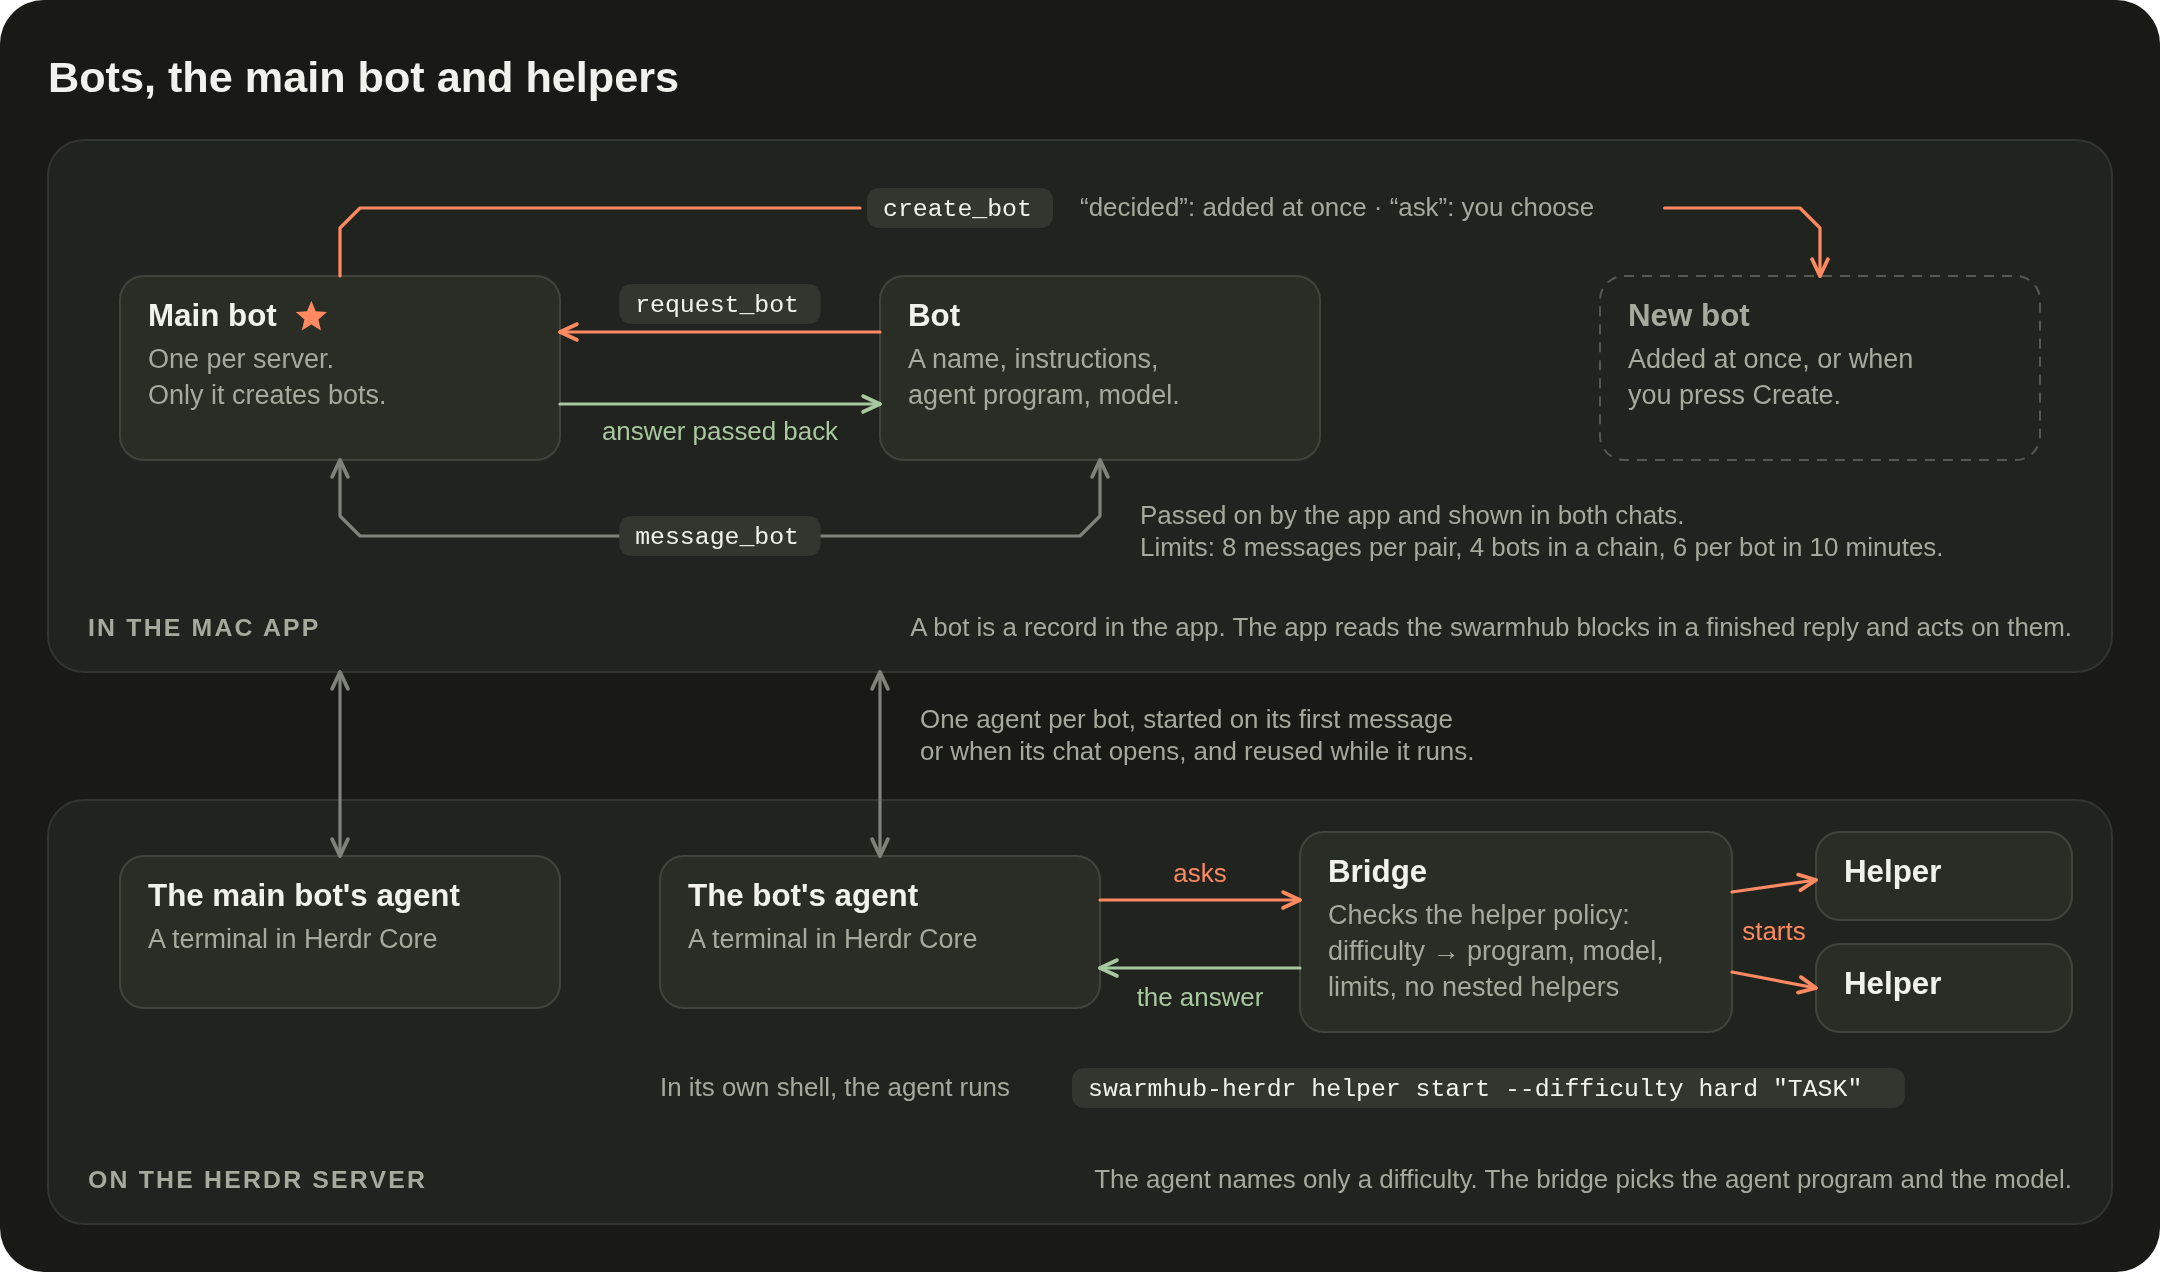
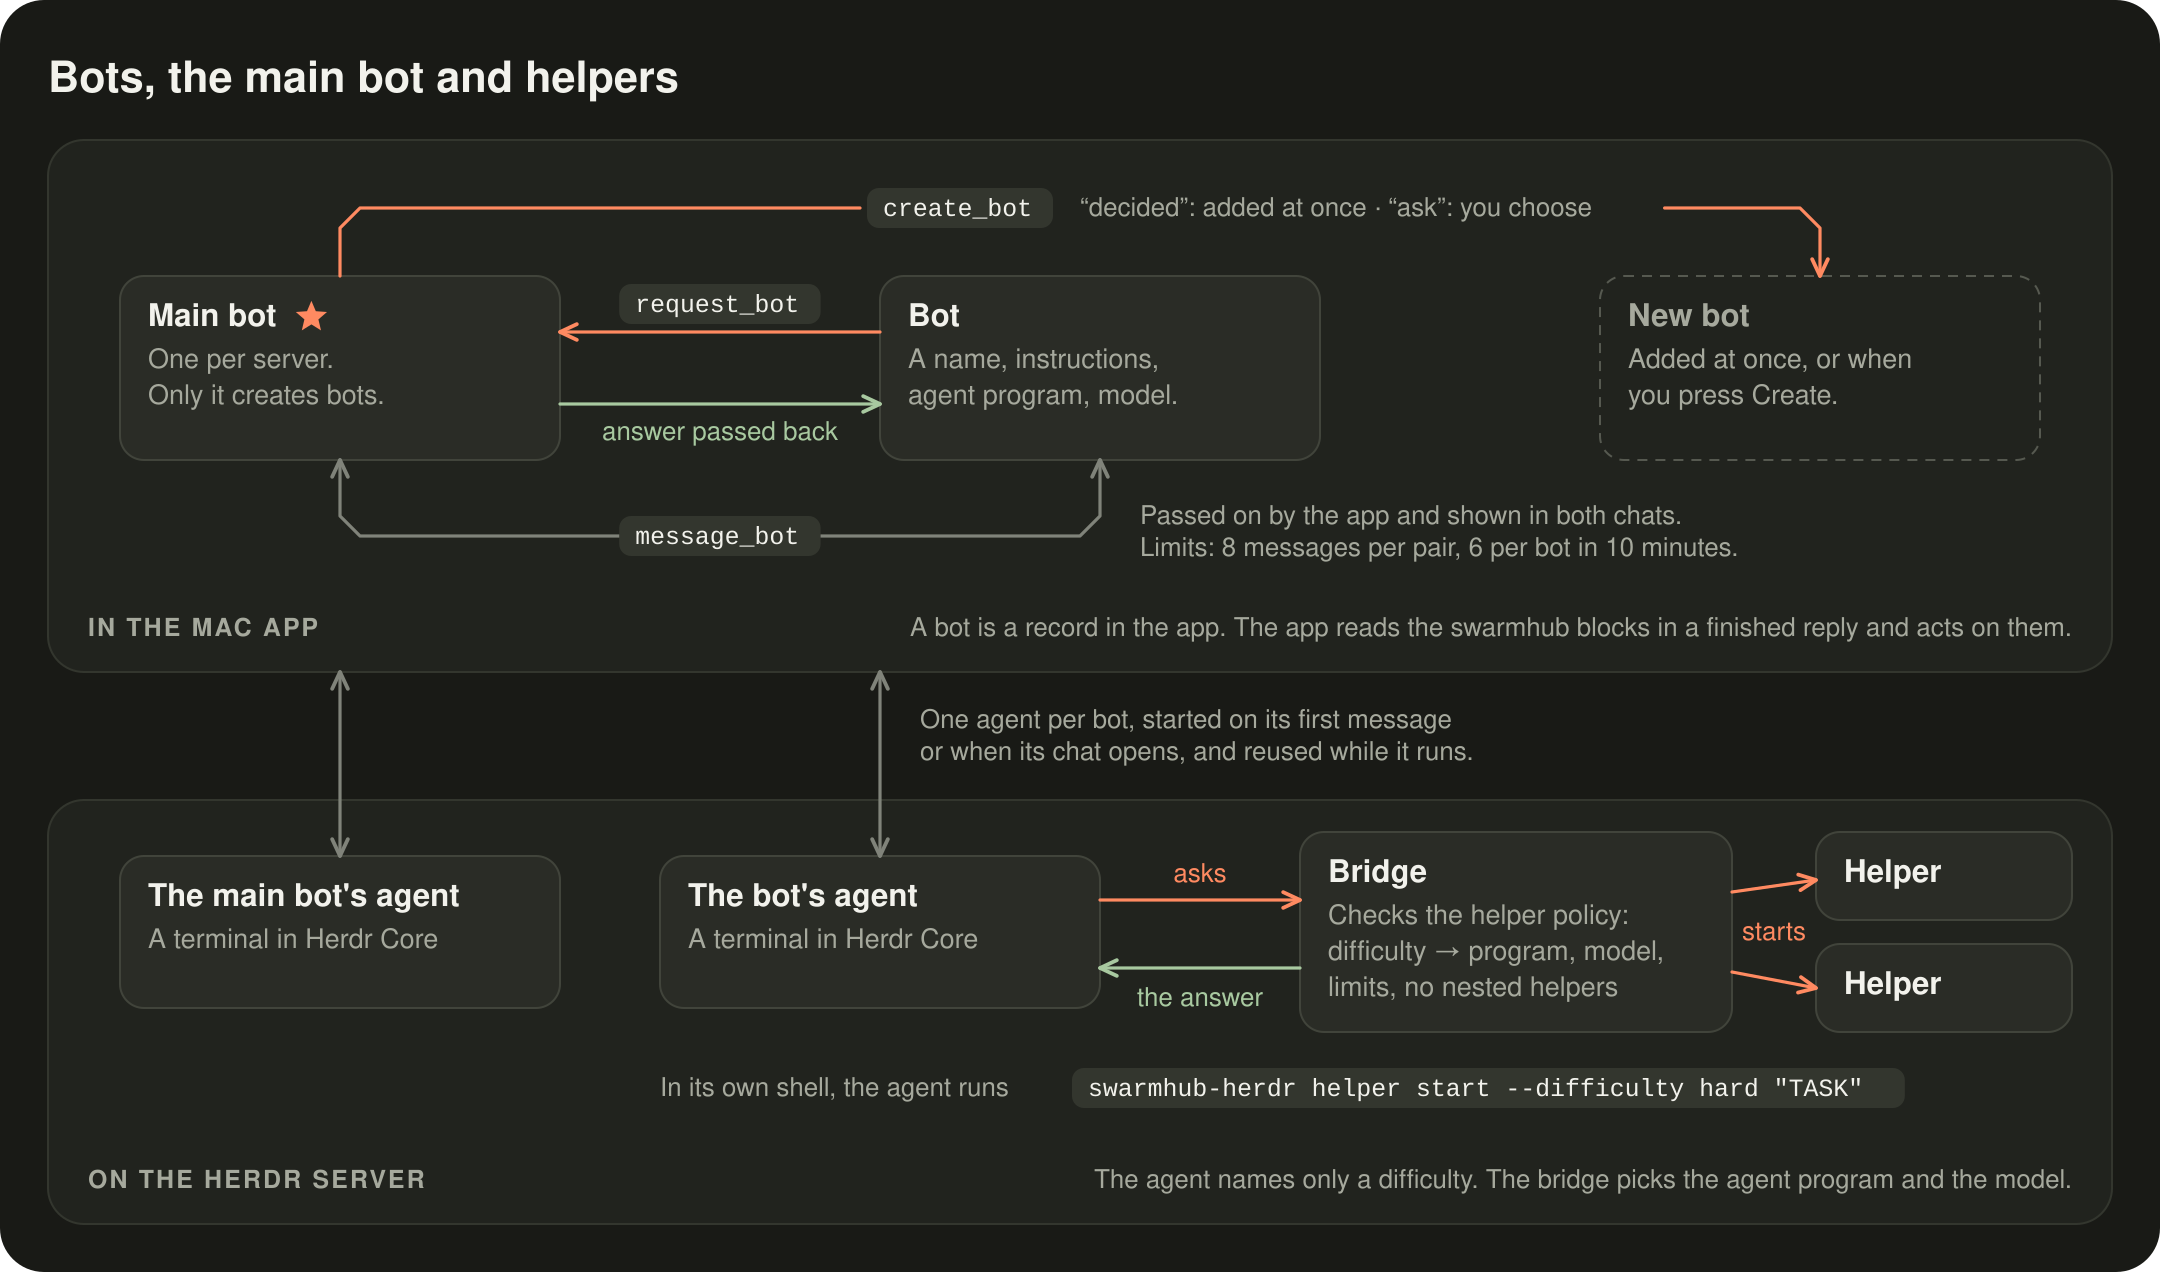
Record candidate inputs, focused evidence and remaining native checks

diff --git a/CANDIDATE-0.8.16.md b/CANDIDATE-0.8.16.md
@@ -1,0 +1,51 @@
+# SwarmHub 0.8.16 isolated candidate
+
+The candidate ref is `refs/heads/candidate/verify-final`. The incremental bundle starts at `816b9f3578b54e41d7fbfb7651170fb7854a944a`. The companion `final.sha` identifies the bundled commit. Native verification remains open.
+
+## Inputs
+
+| Input | Commit | Integration |
+|---|---|---|
+| Early RC | `816b9f35` | Includes the existing Overview/helper work at `50112cb4` and follow-up work at `fbf58027` |
+| Pinned Main ownership | `c0f3f2fa` | First-stage merge `d8200950` |
+| Transcript selection | `8fe3b7d6` | First-stage merge `5376e859`, including the original selection ancestry |
+| Detached activity | `c6b98dff` | First-stage merge `a8619dab` and private fixture directory correction `6163326b` |
+| Large roster | `b29c9b66` | First-stage merge `c7476cf5` and B1/B2 correction `e6619067` |
+| Corrected transcript order | `df172621` | Includes `3ff51c46`. Merge `6e79117b` joins it to the first-stage tip `e6619067` |
+| Combined review fixes | `92e6ae9f` | Participant limit, fixtures, integration and compatibility changes |
+
+## Findings addressed in source
+
+- **Participant refusal.** The bridge send rule and the Mac message relay admit a new recipient regardless of the number already recorded. Both still append new participants to chain history. The settings loader and PATCH-style settings merge discard the old `chain_bots` key, preserve other settings and reject unrelated unknown keys on edits. Serialized settings and bounds omit the retired field. The communication guide and both SVG and PNG diagrams show the remaining limits. Existing journal entries retain their original contents. The Rust regression loads a persisted value of 4, sends Boppy’s ask to Jarvis as participant five and sends the owner’s handoff to participant six. It checks work identity, history, ownership, acceptance and independent pair and sender limits. The Swift relay test follows six bots and checks the return answers.
+- **Fixture deadlocks.** In `inter_bot_delivery_uses_boppys_current_launch_and_keeps_its_review`, both update statements finish and their mutex guard leaves scope before `testing::bot`. In `archive_listing_prompt_and_followup_use_separate_rpc_messages`, the setup guard leaves scope before the stream records its review or calls `review_status`. Both fixtures retain their assertions. The second fixture starts with a launch choice different from the saved choice so its pending assertions still test a genuine restart while a review is open.
+- **Copy and order.** Streaming retains buffered text, cancellation, tool offsets and the order branch’s receipt-aware splits and cumulative reconciliation. Parallel group replies have individual buffers. The repeated local declarations in the copy store were removed. Copy and sidebar recency use transcript time, including a moved placeholder’s continuation time and an imported row’s local placement. The copy regression checks all four rows under both directions of server clock skew. A second test exercises a production-mode cumulative correction and a stale waiting marker. A late direct follow-up with a lower journal ID can now precede the next reply’s identified question.
+- **Roster B1/B2.** The 12 KiB decoded per-member wire limit, full saved persona, 128 KiB encoded batch limit, and additive registration survive integration. Retry bookkeeping distinguishes acknowledged batches from an ambiguous first POST. The first-stage router and Swift regression files are unchanged from `e6619067`.
+- **Detached worker liveness.** A changed valid Linux boot identity, a vanished primary process, a zombie primary or a reused primary PID retires the job. Unreadable, missing or inconsistent identity evidence can still return unknown. Ended records are filtered before host/log validation. Status filenames accept the runner’s hashed and suffixed slugs. The Linux fixture asserts queued on a real flock, working after gate release, unknown for a missing start token, and complete empty after exit, reuse, boot change and 257 orphan records.
+- **Detached integration fixture.** The installed runner creates the actual process group, supervisor, start tokens and status file. The fixture suppresses its external completion wake and group cleanup after the fixture child has exited. The default Swift ingestion test requires bridge-captured workspace GETs, either supplied as a capture or freshly generated using `--integration`. That mode requires the candidate bridge, installed runner and private local Core. It exercises local Core’s full probe argument without an `on` target and uses a separate remote RPC fixture for target replacement and disconnection. Execution evidence for this combined mode is still missing.
+- **Codex restart loop.** The bridge compares the saved Auto choice with the launch choice. Legacy launches also use the setting change time. Effective reviewer, policy, sandbox and review events still describe the running session. Tests cover Auto on with locally overridden settings and Auto off with an effective automatic reviewer.
+- **Bridge compatibility.** Current rosters advertise `end_if_idle`. A capable bridge handles the guarded operation and its refusal is final. For an older bridge the client checks pending reviews by agent name and rereads the core, exact session, idle state, warm requirement and helpers before invoking the old exact-session end route. An older bridge cannot make these client-side checks atomic with its end operation. Route-selection tests cover both bridge generations and a pending review.
+- **Forwarded terminal.** The terminal sheet’s static GET resources accept a loopback listener on a different port. Terminal attachment still requires the listener’s matching Origin and a valid token in the first WebSocket frame. The API keeps its existing authentication and forwarding checks.
+- **Outbox recovery.** An unobserved start can recover with Enter when the composer contains input. Immediately before the write the bridge rechecks the outbox task, opt-out, deadline, stop and pending review. Outbox recovery never pastes the task again. An uncertain outcome with no acknowledgement path leaves typing at its cutoff with an unconfirmed receipt. Direct-send recovery and late acknowledgement coverage remain in place.
+- **Unsupported steering.** The explicit “Send as next message” decision is retained. The composer offers “Add to this answer…” only when steering is available. The unreleased changelog explains failed, unconfirmed and pre-upgrade waiting messages. The duplicate desk review check was removed.
+
+## Execution evidence
+
+These checks used temporary databases, jobs and processes. No old message was replayed, no live setting was edited and no release approval was exercised.
+
+| Check | Observed result |
+|---|---|
+| Linux installed runner with the shipped direct probe | `PASS installed runner + direct probe: queued, live descendant, unknown identity, ambiguous scope, completion and 257 orphan records` |
+| Handwritten fixture record with the direct probe | `PASS fixture record + direct probe: queued, live descendant, unknown identity, ambiguous scope, completion and 257 orphan records` |
+| Focused Rust/SQLite harness using candidate settings, send, close, stop, notes and bot schema against an in-memory database | `PASS Boppy to Jarvis (5), owner handoff (6), legacy 4, chain history, nonowner refusal, acceptance, pair and sender ceilings, opt-out, explicit stop` |
+| Actual restart-status SQL in SQLite | Seven launch/desired/time combinations passed with reviewer and policy fields retained |
+| Static checks | Changed Rust sources parsed with rustfmt, locked Linux dependency metadata loaded offline, Python sources parsed, and the integration diff passed whitespace checks |
+
[1 lines of base64/hex data omitted]
+
+## Outstanding verification and review
+
+- **Native Mac diagnostics and suites.** SSH to the paired Mac was denied by the sandbox. The paired-Mac connector required approval, unavailable in this job. Neither native Rust fixture has a post-change Mac result. Swift compilation, XCTest/Swift Testing, native terminal UI, Darwin process identity and the combined suite also remain unverified. Earlier results for individual inputs do not cover this merge.
+- **Detached integration evidence.** There is no built candidate bridge here. Local TCP sockets and Unix listening sockets are denied. The integration entry point reports that it requires an executable bridge. Real bridge/runner GET captures, the local Core machine.exec check, remote-target GET assertions and Swift consumption of those captures still need a socket-enabled host. The direct runner output above covers the writer and probe only. See `docs/detached-activity.md` for the capture command.
+- **Order.** The one-time placement of legacy imports without a local placement timestamp still compares original clocks. Reliable repair of skew in those older stores remains open.
+- **Detached activity follow-ups.** An older bridge can still leave an unavailable feed in Overview. Polling scans historical status files, counts unrelated directory entries toward its cap and runs inline in the roster request. Per-app polling, unconditional read publication, unhandled symlinked owner scopes, Darwin executable pins across symlink changes, and directories created group-writable remain open. The queued fixture proves a visible Linux flock wait. Provider-specific production queues and kernels without that evidence remain unverified. The job hash is unsalted and the scope argument is process-visible on the worker.
+- **Early RC follow-ups.** Digest-named socket cleanup after abnormal exits and production socket path lengths on long Mac home paths remain open. Stored task text can expose the turn marker. Legacy already-uncertain asks keep their original delivery cutoff and can expire on startup. The candidate preserves that tested deadline policy. The independent review did not cover all view files, group work, model code, routine transfers, setup or the full test suite.
